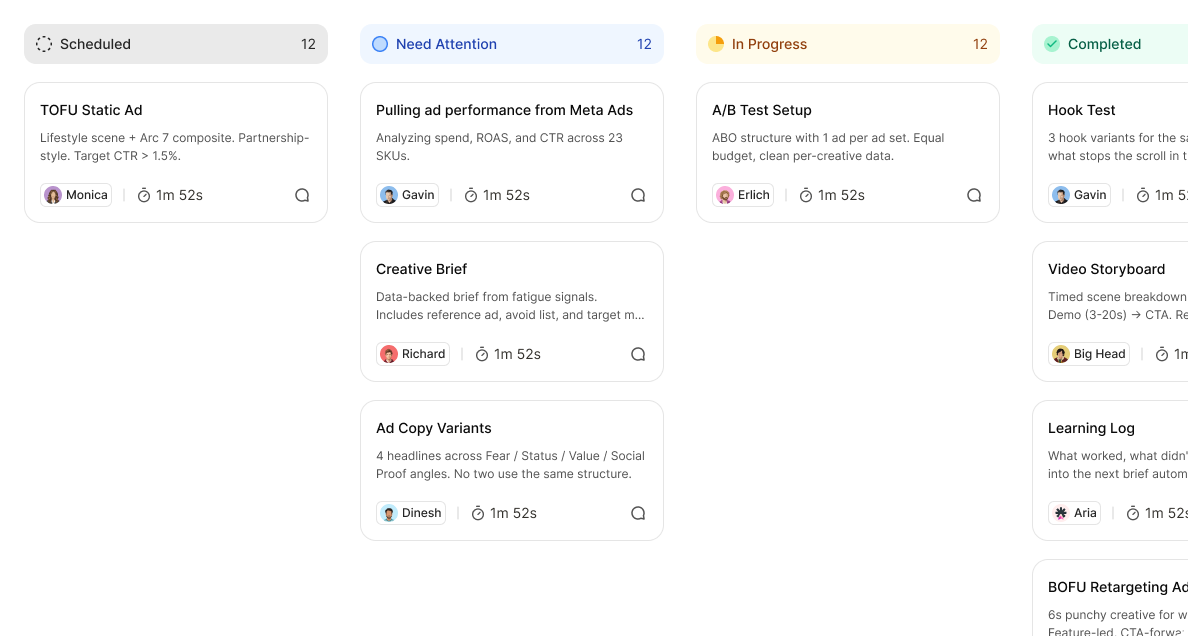
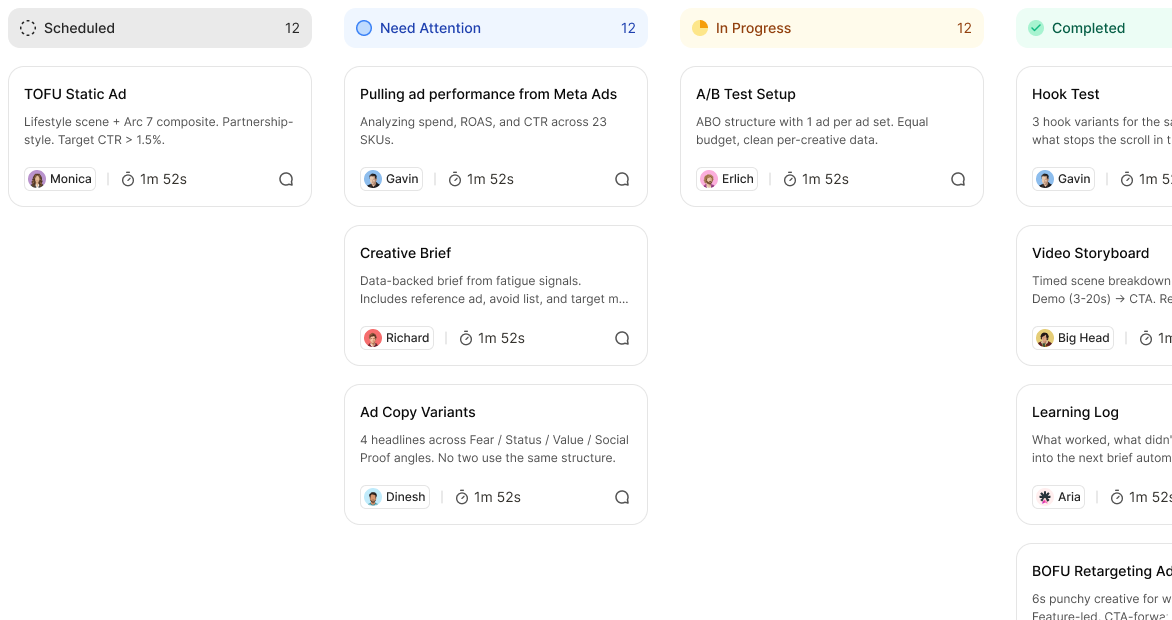
fix(shopos): Two doors body text + kanban transparency to match Figma
Two issues the user flagged via Figma side-by-side:

- Body text colour: was text-[#0a0a0a]/85 (85% opacity, which the
  peach gradient washes out toward orange-grey). Solid #0a0a0a now,
  matching the Figma which renders both card bodies in pure black.
- Italic <em> wrapper removed from "Needs Attention -> In Progress
  -> Completed" in the Jobs/Kanban card body. The Figma renders
  those words regular weight + style, not italic.

Also re-saved public/images/shopos/two-doors-kanban.png after
stripping the rgba(255,255,255,51) 20%-white wash that was baked
into the source PNG's "transparent" areas. That wash was what
created the yellow-brown halo around the kanban on the peach
gradient. Trimmed to 1172x620 after cleaning.

diff --git a/app/work/shopos/page.jsx b/app/work/shopos/page.jsx
@@ -935,7 +935,7 @@ export default function ShopOSCaseStudy() {
               <h3 className="text-[18px] font-semibold leading-tight text-[#0a0a0a] md:text-[20px]">
                 Chat / Cowork
               </h3>
-              <p className="mt-3 max-w-[34ch] text-[14px] leading-[1.55] text-[#0a0a0a]/85 md:text-[15px]">
+              <p className="mt-3 max-w-[34ch] text-[14px] leading-[1.55] text-[#0a0a0a] md:text-[15px]">
                 For goal thinkers: state the outcome, talk to one agent
                 or let the orchestrator recruit the team into one
                 thread.
@@ -966,10 +966,10 @@ export default function ShopOSCaseStudy() {
               <h3 className="text-[18px] font-semibold leading-tight text-[#0a0a0a] md:text-[20px]">
                 Jobs / Kanban
               </h3>
-              <p className="mt-3 max-w-[34ch] text-[14px] leading-[1.55] text-[#0a0a0a]/85 md:text-[15px]">
-                For task thinkers: work moves{" "}
-                <em>Needs Attention &rarr; In Progress &rarr; Completed</em>
-                , tracked in the Tasks tab for bigger pieces.
+              <p className="mt-3 max-w-[34ch] text-[14px] leading-[1.55] text-[#0a0a0a] md:text-[15px]">
+                For task thinkers: work moves Needs Attention &rarr; In
+                Progress &rarr; Completed, tracked in the Tasks tab for
+                bigger pieces.
               </p>
               {/* Kanban board, transparent PNG. The asset itself is
                   framed so the right and bottom edges already show
